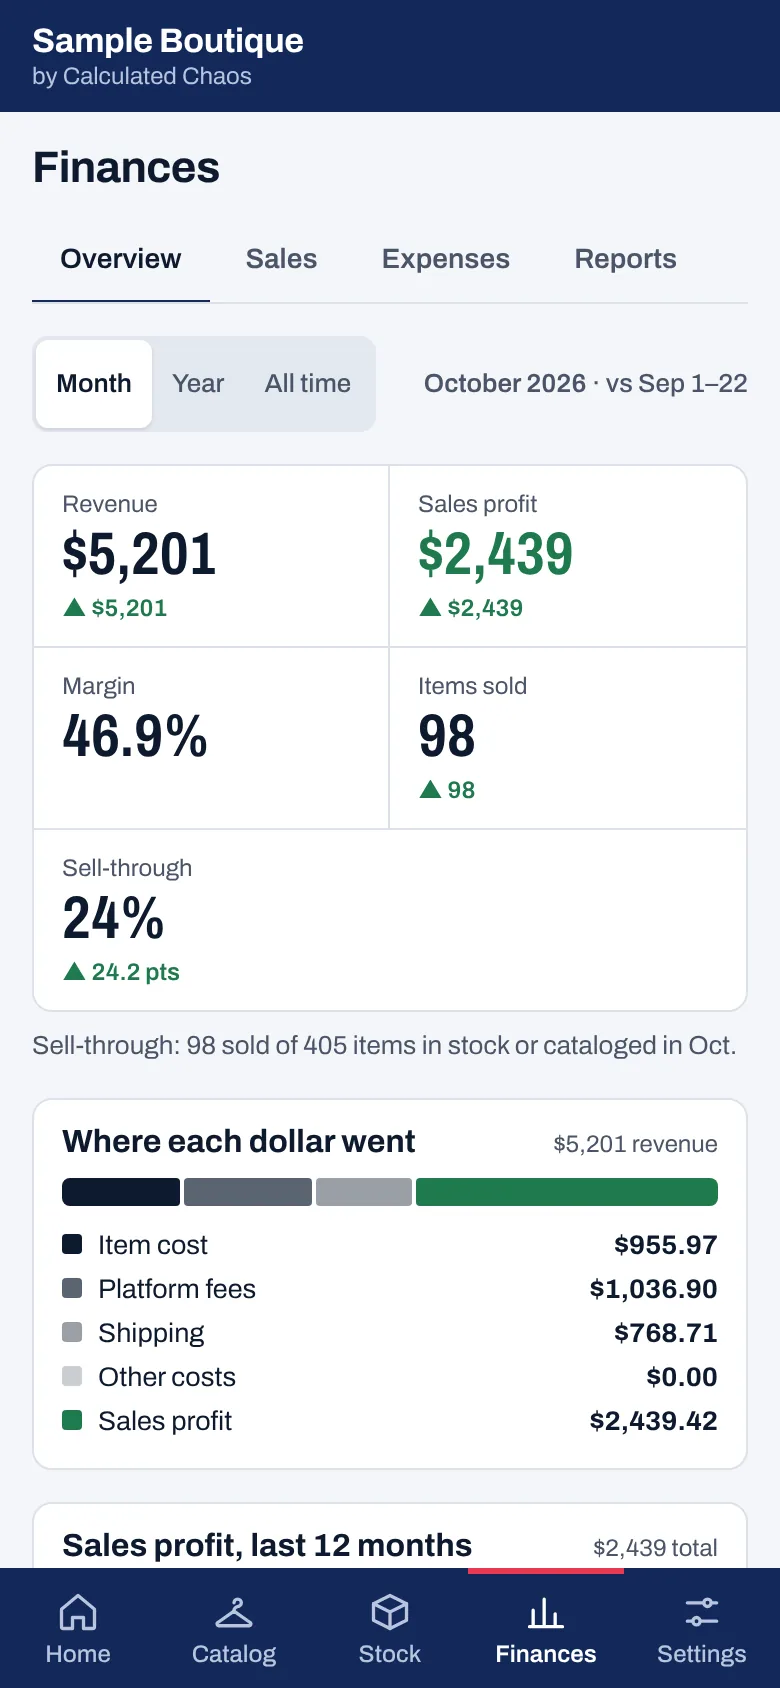
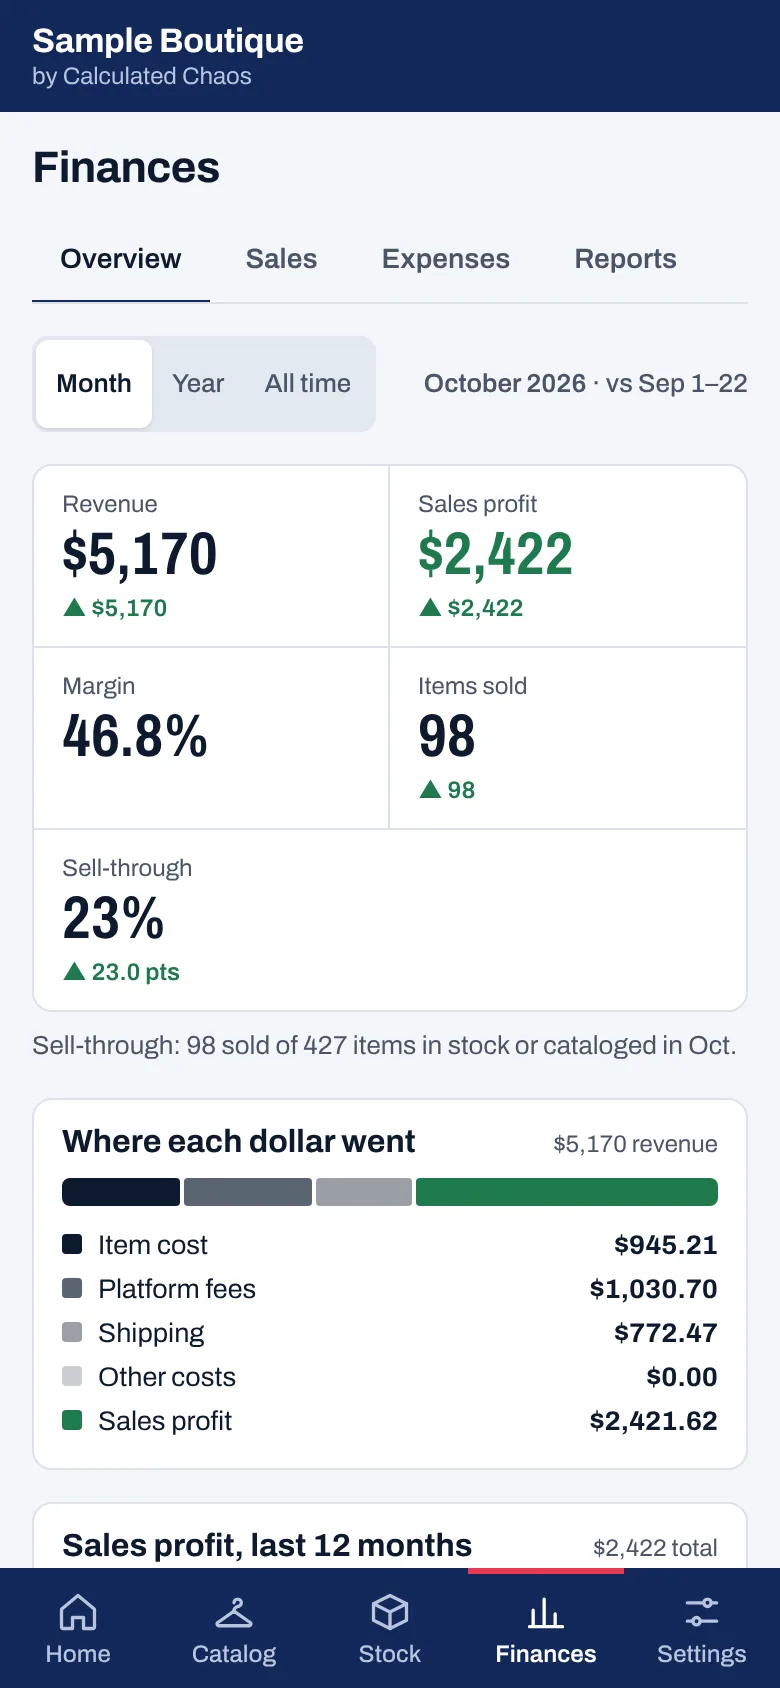
Sample funnel: 176 cataloged, 153 listed, 98 sales this month (v3.27.11)
The sample business now has 329 pieces in stock, split 176 cataloged and
153 listed, and 98 sales in the month. Welcome screenshots regenerated.

diff --git a/tests/harness/sample-data.js b/tests/harness/sample-data.js
@@ -37,7 +37,7 @@ const PIECES = [
 ];
 
 // A larger sample catalog, so the Home numbers read as a busy business:
-// 290 pieces in stock and 90 sales in the current month, from a fixed seed.
+// 312 pieces in stock (168 cataloged, 144 listed) and 90 sales in the current month, from a fixed seed.
 const ADJECTIVES = ['Linen', 'Cotton', 'Denim', 'Wool', 'Silk', 'Knit', 'Floral', 'Striped', 'Pleated', 'Corduroy'];
 const KINDS = [['Skirt', 'Skirt', 'Madewell'], ['Top', 'Top', 'Uniqlo'], ['Dress', 'Dress', 'Anthropologie'], ['Jacket', 'Jacket', 'Levi\u2019s'],
   ['Pants', 'Pants', 'Gap'], ['Sweater', 'Sweater', 'J.Crew'], ['Bag', 'Accessory', 'Coach']];
@@ -47,24 +47,24 @@ function seeded(seed){ let x = seed; return () => { x = (x * 1103515245 + 12345)
 function generatedPieces(){
   const rnd = seeded(20261022);
   const out = [];
-  for (let k = 0; k < 380; k++){
+  for (let k = 0; k < 402; k++){
     const [clothingType, category, brand] = KINDS[Math.floor(rnd() * KINDS.length)];
     const adj = ADJECTIVES[Math.floor(rnd() * ADJECTIVES.length)];
-    const inStock = k < 290;
+    const inStock = k < 312;
     const cost = Math.round((4 + rnd() * 12) * 100) / 100;
     const listPrice = Math.round(18 + rnd() * 50);
     const soldPrice = Math.round(30 + rnd() * 50);
     const fees = Math.round(soldPrice * 0.2 * 100) / 100;
     const shipping = Math.round((6 + rnd() * 4) * 100) / 100;
     const platforms = inStock ? (k % 3 === 0 ? ['ebay', 'poshmark'] : [k % 2 ? 'poshmark' : 'ebay']) : [k % 2 ? 'poshmark' : 'ebay'];
-    const soldDays = inStock ? null : (k - 290) % 21;
+    const soldDays = inStock ? null : (k - 312) % 21;
     docsGenerated.push({
       id: 'gen' + String(k + 1).padStart(3, '0'),
       productCode: '#' + String(1000 + k),
       name: `${adj} ${clothingType.toLowerCase()}`,
       clothingType, category, brand,
       size: ['XS', 'S', 'M', 'L'][k % 4], color: COLORS[Math.floor(rnd() * COLORS.length)],
-      cost, listPrice: inStock ? listPrice : soldPrice, status: inStock ? (k % 2 ? 'anunciado' : 'catalogado') : 'vendido',
+      cost, listPrice: inStock ? listPrice : soldPrice, status: inStock ? (k < 144 ? 'anunciado' : 'catalogado') : 'vendido',
       listedPlatforms: platforms, storageBox: 'B-' + String(1 + (k % 12)).padStart(2, '0'), photos: [],
       hostedPhotoUrls: null, condition: 'Excellent', createdAt: Date.now() - Math.floor(rnd() * 90) * DAY,
       ...(inStock ? {} : { soldAt: Date.now() - soldDays * DAY, soldPrice, soldPlatform: platforms[0], feesTotal: fees,

diff --git a/src/modules/version.js b/src/modules/version.js
@@ -2,5 +2,5 @@
 // This is what shows in the badge at the top of the app, in CSV exports and
 // in the Developer Panel — it's the single source of truth for "which
 // version is this?"
-export const APP_VERSION = 'v3.27.10';
+export const APP_VERSION = 'v3.27.11';
 export const APP_VERSION_DATE = '2026-10-22';

diff --git a/CLAUDE.md b/CLAUDE.md
@@ -1009,6 +1009,8 @@ on any of these:
 
 ## Pending changelog entry (since v3.27.0)
 
+- v3.27.11: sample business funnel set to 176 cataloged and 153 listed (329 in stock, 98 sales this month); welcome screenshots regenerated. Pending: real listing photos for the welcome carousel; the header logo size and the label text size (planned, not applied yet).
+
 - v3.27.10: the welcome page is the root (`/`, `index.html`); the app moved to `/app` (`app.html`, Vercel rewrite). The sign-in page redirects a signed-in user to `/app` (Firebase session in IndexedDB; not yet tested on an installed iPhone app). Manifest `start_url` is `/app`; service worker cache `cc-shell-v2`. The welcome's Sign in and Request access go to `/app`. Pending: auth emails use the Firebase default sender; the app-email service is not chosen. Unverified in production: the redirect on an installed iPhone app, and the `/app` rewrite on the Vercel domains.
 
 - v3.27.9: sign-in gets "Forgot password?" (Firebase reset email; the note is the same whether or not the account exists). Pending: auth emails use the Firebase default sender (branded sender and action domain on calculatedchaos.app); the app-email service is not chosen yet;  Infra reference: `docs/infrastructure.md`. Unverified in production: the reset email arriving and the link opening the reset screen.
